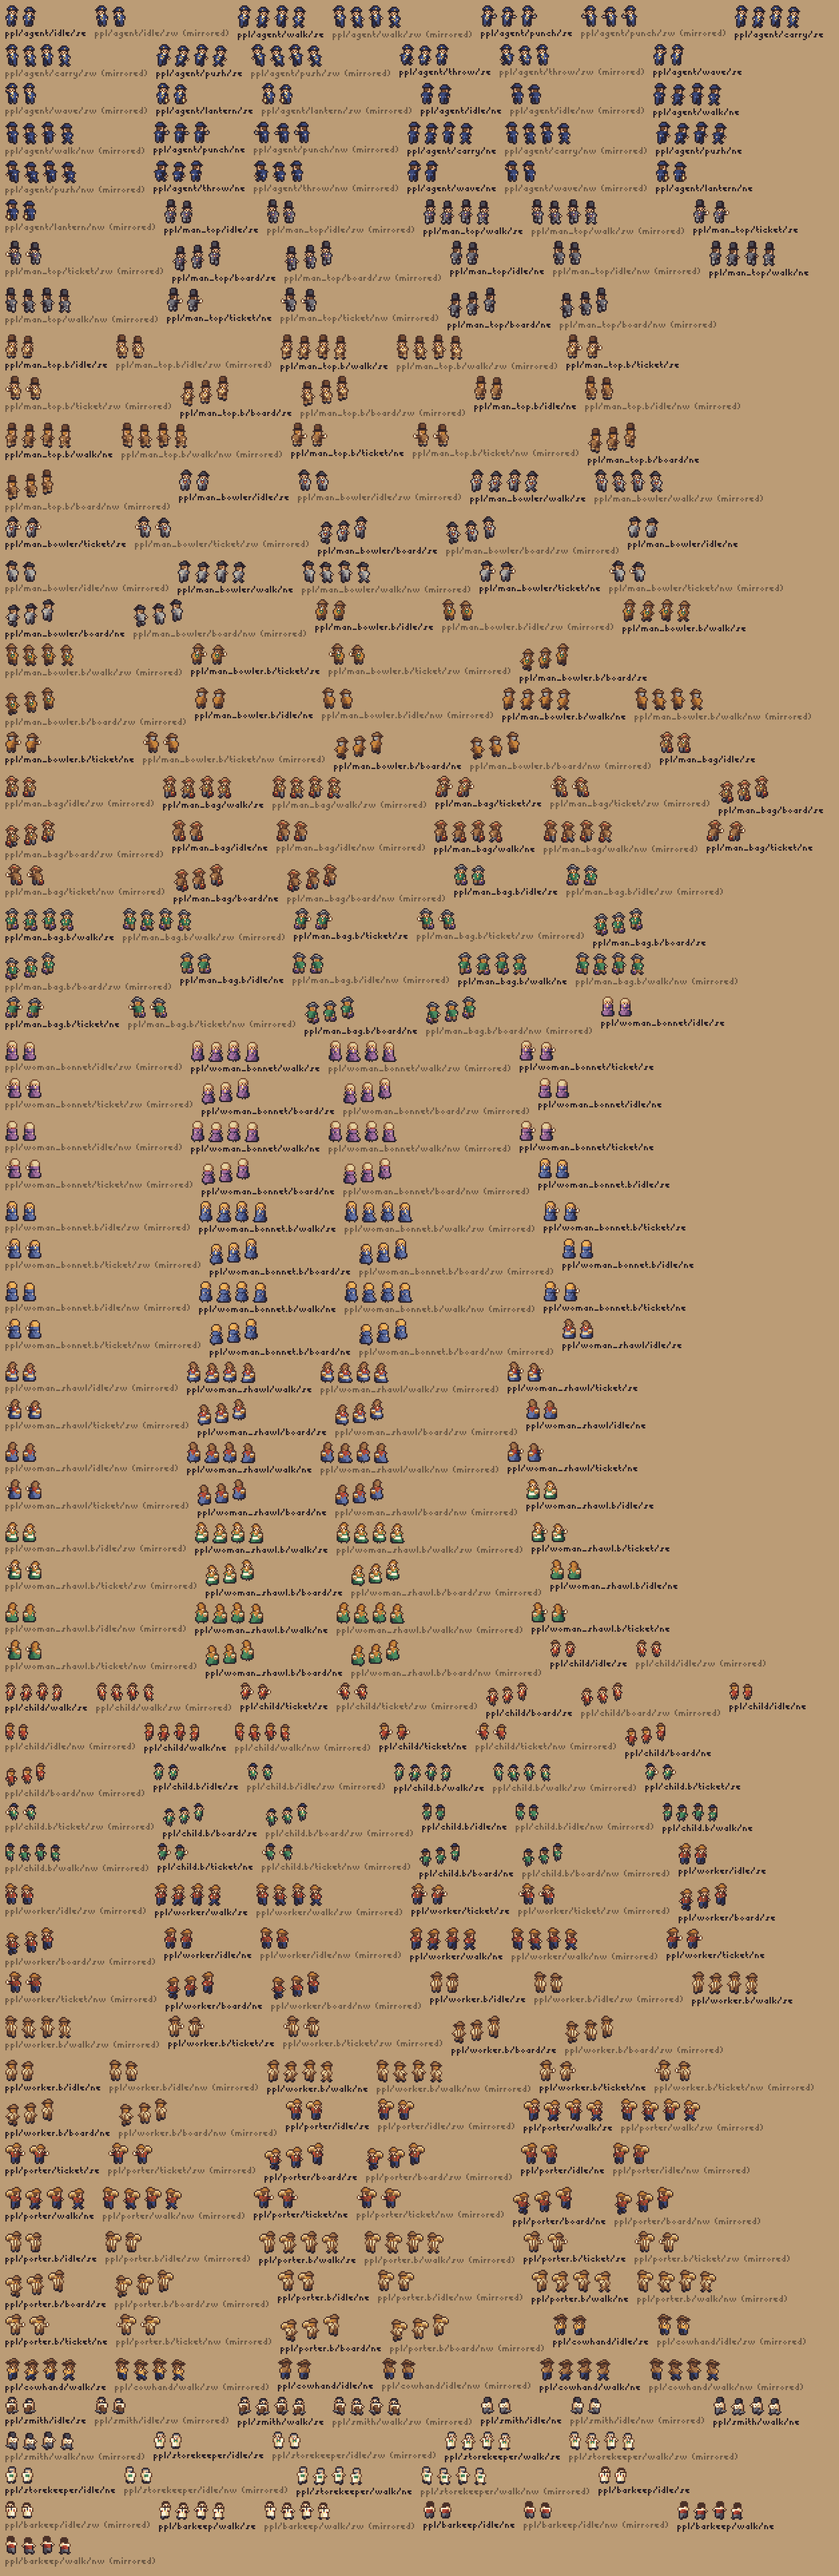
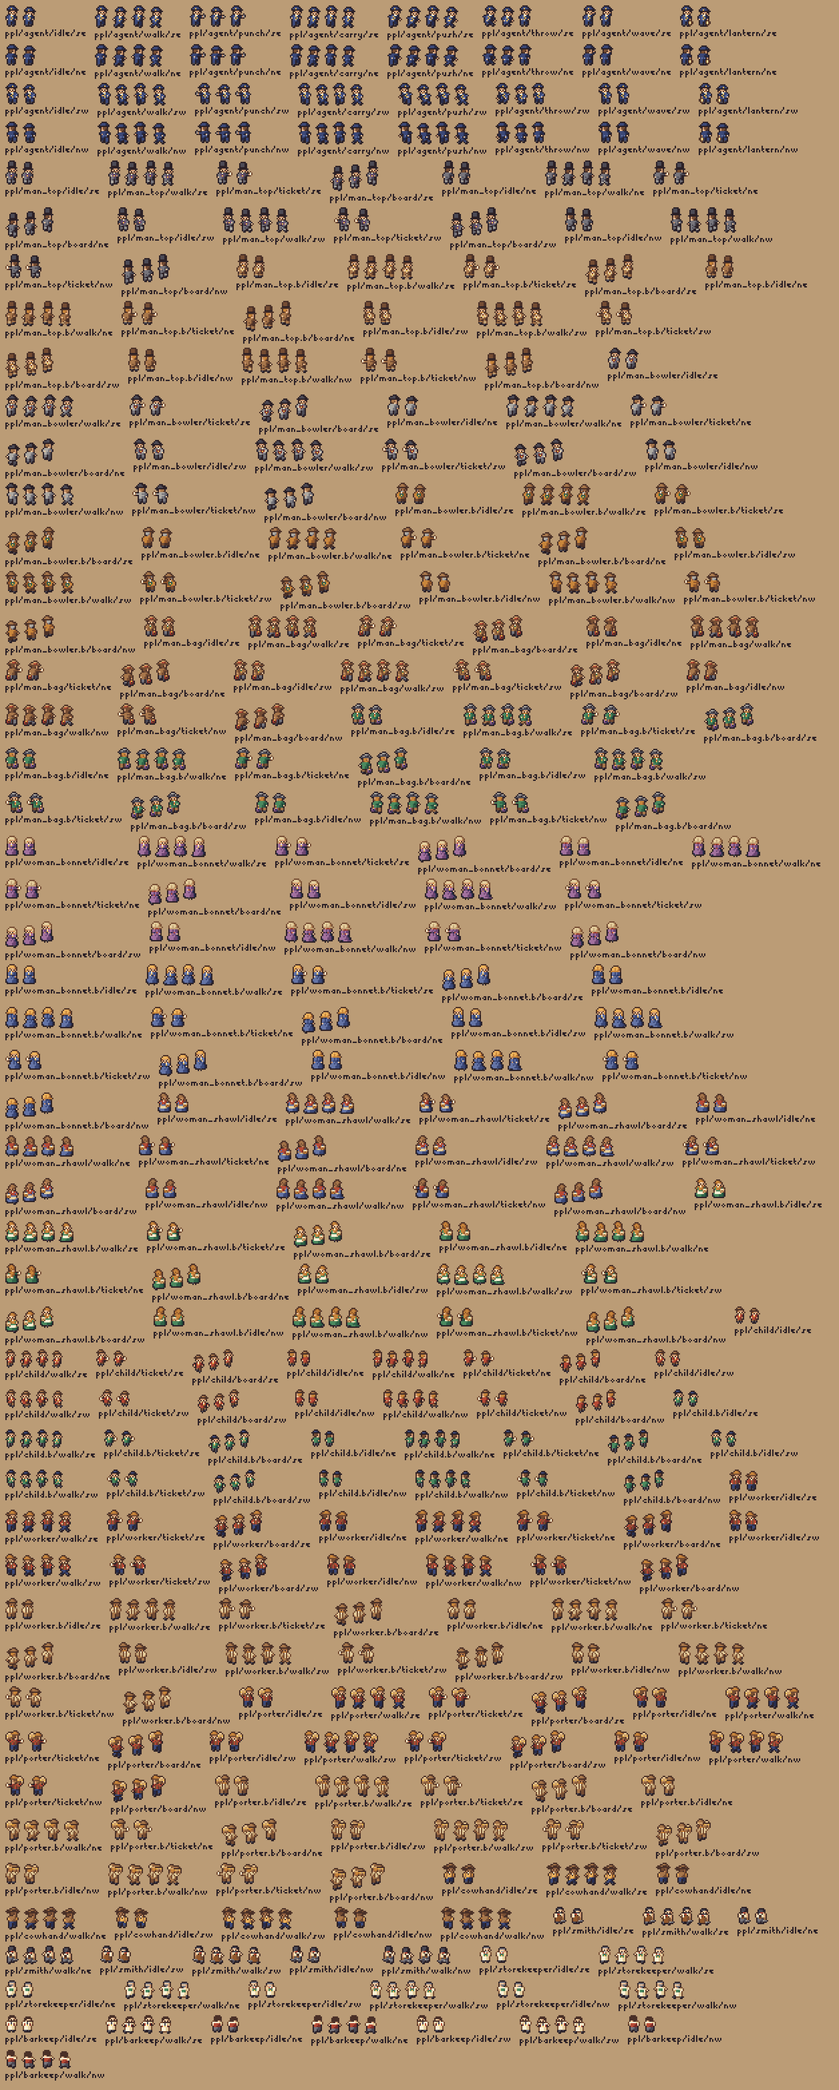
People: draw all four facings lit from the upper left; trunk, women's backs, smith
sw and nw are now drawn (the se and ne maps mirrored, then re-lit so the light stays on the upper left),
so the renderer must not mirror people (meta mirror: false; README-people.md says so and lists the
extra types and the wave and lantern animations for the contract). The porter's trunk now sits end on
on his shoulder with his hand steadying it; the bonnet and the hair bun have proper backs (bavolet
frill, sash bow, bun and parting); the smith has a red neckerchief, a tan leather apron with dark
straps and dark hair, so he no longer reads as one brown block. 320 sprites, 896 frames, people
sheet about 21 KB.

Claude-Session: https://claude.ai/code/session_014zyJYPBcwpjXzd1ZnkSX9n

Changed region(s): [[0.0, 0.0, 0.9544, 0.9964], [0.8004, 0.4982, 0.862, 0.5916]]

diff --git a/tools/pixelart/people.py b/tools/pixelart/people.py
@@ -208,9 +208,9 @@ TPL['smith'] = [
 "....aSSs...",
 "....SeSes..",
 "....aAAa...",
-"...WWWWw...",
-"...WPPPw...",
-"...WPNPp...",
+"...WRRWw...",
+"...WNPNw...",
+"...WPPPp...",
 "...PPPpp...",
 "...PPPpp...",
 "...PPPpp...",
@@ -221,11 +221,11 @@ TPL['smith.back'] = [
 "....AAAa...",
 "....AAAa...",
 "....AAaa...",
-".....aSs...",
-"...WWWWw...",
-"...WNWNw...",
-"...WWNww...",
-"...TPTtp...",
+".....RRs...",
+"...NWWNw...",
+"...WNNWw...",
+"...WNNww...",
+"...TPPtp...",
 "...TTTtt...",
 "...TTttt...",
 ]
@@ -306,13 +306,13 @@ TPL['lady'] = [
 ]
 TPL['lady.back'] = [
 "....HHHh...",
-"...HHHHHk..",
-"...HHHHhk..",
-"...hHHHhs..",
-"....RRrs...",
-"...ODDDdo..",
-"....DDDd...",
-"....VVvv...",
+"...HHhHHk..",
+"...HHhHhk..",
+"..hhhhhhs..",
+"....RrRs...",
+"...ODdDdo..",
+"....DdDd...",
+"....VRVv...",
 "...DDDdDf..",
 "...DDdDdf..",
 "..DDDDDddf.",
@@ -336,16 +336,16 @@ TPL['farmwife'] = [
 "..fDDDdddf.",
 ]
 TPL['farmwife.back'] = [
-"....AAa....",
+"....aAa....",
 "...aAAAa...",
-"....AAAa...",
-"....AAaa...",
+"....AaAa...",
+"....aAaa...",
 ".....aSs...",
 "...UUUUu...",
 "..UUUUUuu..",
 "...UUUuu...",
-"...DDUDdf..",
-"...DDDDdf..",
+"...DDUudf..",
+"...DpPpdf..",
 "..DDDDDddf.",
 "..DDDDdddf.",
 "..fDDDdddf.",
@@ -430,7 +430,7 @@ SPECS = {
     'cowhand':     ('cowhand', 'man', spec(hat=('wood', 2), band=('wood', 4), coat=('ochre', 0), vest=('wood', 2),
                                            band2=None, trous=('navy', 1), hair=('wood', 3), skin='skin2',
                                            tie=('red', 1))),
-    'smith':       ('smith', 'man', spec(hair=('iron', 3), apron=('wood', 3), tie=('wood', 2), shirt=('cream', 0),
+    'smith':       ('smith', 'man', spec(hair=('iron', 3), apron=('ochre', 2), tie=('wood', 4), shirt=('cream', 0), band=('red', 1),
                                          trous=('iron', 2), sleeve='skin')),
     'storekeeper': ('storekeeper', 'man', spec(hair=('iron', 1), apron=('cream', 0), vest=('green', 1),
                                                tie=('dark', 1), trim=('red', 1), sleeve='shirt', trous=('iron', 2))),
@@ -654,9 +654,8 @@ def arm_pts(build, pose, side):
     elif pose == 'up2':
         sl(x0, top + 1); sl(x0, top + 2)
         hd(x0, top + 3)
-    elif pose == 'shoulder':     # hand up at the shoulder steadying a load on it
-        sl(x0, top); sl(x0, top + 1)
-        hd(x0, top + 2)
+    elif pose == 'shoulder':     # arm up at the shoulder steadying a load on it (the hand is drawn with the load)
+        sl(x0, top); sl(x0 - 1, top + 1)
     elif pose == 'none':
         pass
     else:
@@ -702,11 +701,12 @@ def held(kind, hx, hy, back, swing=0):
     raise ValueError(kind)
 
 
-TRUNK = [            # a small steamer trunk carried on the near shoulder (front view), lid trim and brass corners
-    ".111.",
-    "12223",
-    "G333G",
-    "34443",
+TRUNK = [            # a small steamer trunk seen end on, resting on the near shoulder, the hand steadying it
+    ".11.",
+    "1222",
+    "G22G",
+    "S334",
+    "3443",
 ]
 CRATE = [
     ".1112.",
@@ -859,7 +859,7 @@ def trim(img, anchor):
 # Animations
 # ---------------------------------------------------------------------------------------------------------------
 DIRS = {'se': (False, False), 'sw': (False, True), 'ne': (True, False), 'nw': (True, True)}
-DRAWN = ('se', 'ne')
+DRAWN = ('se', 'ne', 'sw', 'nw')    # all four drawn and lit from the upper left: do not mirror people
 # e: facing world +x (screen lower right, front three quarters); s: +z (lower left, front, mirrored);
 # n: -z (upper right, back three quarters); w: -x (upper left, back, mirrored).
 
@@ -936,8 +936,8 @@ def agent_anims():
 
 
 # Where the game draws a carried item (offset in px from the feet anchor to the item's anchor) and the cart grip.
-CARRY_HANDS = {'se': (0, -5), 'ne': (0, -7)}   # the contract's default is (0, -9): see NOTES (too high for a crate)
-PUSH_GRIP = {'se': (5, -3), 'ne': (5, -3)}
+CARRY_HANDS = {'se': (0, -5), 'ne': (0, -7), 'sw': (0, -5), 'nw': (0, -7)}   # contract default (0, -9) is too high for a crate
+PUSH_GRIP = {'se': (5, -3), 'ne': (5, -3), 'sw': (-5, -3), 'nw': (-5, -3)}
 CART_BEHIND = 2.1     # how far (u) behind the cart's centre the pusher stands, for the committed handcart sprite
 
 TAGS = {'store': ('green', 0), 'smithy': ('glass', 1), 'saloon': ('red', 0)}
@@ -969,7 +969,7 @@ def emit_frames(who, kwlist, d, extra=None):
         load = kw.pop('load', None)
         xh = kw.pop('extra_hold', None)
         if load == 'trunk':
-            kw['load'] = (TRUNK, -6, 5)
+            kw['load'] = (TRUNK, -5, 6)
         elif isinstance(load, tuple):
             kw['load'] = load
         g = frame(who, back, **kw)
@@ -987,10 +987,11 @@ def emit_frames(who, kwlist, d, extra=None):
 
 def build_all():
     """Returns a list of (contract key, [frames as (img, anchor)], meta). Keys: ppl/<who>/<anim>/<dir>; the
-    pipeline appends /0, /1, ... per frame. Only se and ne are drawn; the renderer mirrors them for sw and nw."""
+    pipeline appends /0, /1, ... per frame. All four facings are drawn and re-lit; the renderer must not mirror them."""
     out = []
     def meta_for(anim, more=None):
-        m = {'frame_note': FRAME_NOTES.get(anim, ''), 'anchor': 'between the feet, at ground level'}
+        m = {'frame_note': FRAME_NOTES.get(anim, ''), 'anchor': 'between the feet, at ground level',
+             'mirror': False}     # all four facings are drawn and lit from the upper left: never mirror people
         if more:
             m.update(more)
         return m

diff --git a/tools/pixelart/review_people.py b/tools/pixelart/review_people.py
@@ -1,8 +1,7 @@
 #!/usr/bin/env python3
 # Review pictures for the people (owner: the people artist). Writes, in tools/pixelart/out/:
-#   people-contact.png    every person sprite at 3x with its key: the drawn se and ne frames, then (dimmer
-#                         label) the sw and nw frames as the renderer will mirror them
-#   people-closeup.png    the idle frame of every type at 8x, se and ne, for judging faces and clothes
+#   people-contact.png    every person sprite at 3x with its key (all four facings are drawn; none mirrored)
+#   people-closeup.png    the idle frame of every type and facing at 8x, for judging faces and clothes
 #   people-testscene.png  people standing on a platform beside a coach, queueing, boarding, the agent punching,
 #                         carrying a crate (drawn at the hands offset) and pushing the handcart, at 3x
 # The test scene takes the platform, coach, goods and handcart from the committed sheets (out/atlas.json);
@@ -43,9 +42,6 @@ def contact(sprites, scale=3, width=620):
     cells = []
     for name, frames, meta in sprites:
         groups = [(name, frames, (43, 32, 38, 255))]
-        d = name.split('/')[-1]
-        md = {'se': 'sw', 'ne': 'nw'}[d]
-        groups.append((name[:-2] + md + ' (mirrored)', [mirrored(f, a) for f, a in frames], (110, 90, 70, 255)))
         for nm, frs, col in groups:
             fw = sum(i.shape[1] + 3 for i, _ in frs)
             ups = max(a[1] for _, a in frs); downs = max(i.shape[0] - a[1] for i, a in frs)
@@ -78,7 +74,7 @@ def contact(sprites, scale=3, width=620):
 def closeup(sprites, scale=8):
     sel = [(n, f[0]) for n, f, m in sprites if n.split('/')[2] == 'idle']
     CW, CH = 18, 24
-    per = 12
+    per = 16
     nrow = (len(sel) + per - 1) // per
     img = np.zeros((nrow * CH, per * CW, 4), np.uint8); img[...] = BG
     for i, (n, (f, (ax, ay))) in enumerate(sel):
@@ -96,11 +92,8 @@ def test_scene(sprites, scale=3):
         return sheets[e['sheet']][y:y + h, x:x + w], (ax, ay)
     ppl = {n: f for n, f, m in sprites}
     def person(key, d, k=0):
-        base = key + '/' + ('se' if d in ('se', 'sw') else 'ne')
-        f, a = ppl[base][k % len(ppl[base])]
-        if d in ('sw', 'nw'):
-            f, a = mirrored(f, a)
-        return f, a
+        frs = ppl[key + '/' + d]
+        return frs[k % len(frs)]
     W, H = 300, 200
     O = (120, 70)
     img = np.zeros((H, W, 4), np.uint8); img[..., :3] = (159, 174, 85); img[..., 3] = 255

diff --git a/tools/pixelart/sprites_people.py b/tools/pixelart/sprites_people.py
@@ -1,6 +1,6 @@
 # Sprite module: people (owner: the people artist). Keys follow the contract (plans/proto-sprites.md):
-# ppl/<who>/<anim>/<dir>, frames numbered /0, /1, ... by the pipeline. Only se and ne are drawn; the renderer
-# mirrors them for sw and nw. The drawing itself is in people.py.
+# ppl/<who>/<anim>/<dir>, frames numbered /0, /1, ... by the pipeline. All four facings are drawn, lit from the
+# upper left: the renderer must not mirror people. The drawing is in people.py; see README-people.md.
 import people as PE
 
 

diff --git a/tools/pixelart/README-people.md b/tools/pixelart/README-people.md
@@ -1,0 +1,46 @@
+# People sprites
+
+Made by `people.py` (the drawing) and `sprites_people.py` (registers them with the pipeline). Review pictures:
+`python3 tools/pixelart/review_people.py` writes `out/people-contact.png`, `out/people-closeup.png` and
+`out/people-testscene.png`.
+
+## Keys
+
+`ppl/<who>/<anim>/<dir>/<f>`, as in the contract (`plans/proto-sprites.md`).
+
+- **All four facings are drawn: `se`, `ne`, `sw`, `nw`.** Each is lit from the upper left. **The renderer must
+  NOT mirror people**: a mirrored frame would put the light on the wrong side. (This changes the contract's
+  "the renderer mirrors se for sw and ne for nw" for people; decided by the lead, 2026-11-10.)
+- Anchor: the point between the feet, at ground level. Alpha is hard (0 or 255); no shadow is baked in.
+
+## What exists
+
+| who | anims (frames) |
+|---|---|
+| `agent` | idle 2, walk 4, punch 3, carry 4, push 4, throw 3, **wave 2**, **lantern 2** |
+| contract travellers: `man_top`, `man_bowler`, `man_bag` (carpetbag), `woman_bonnet`, `woman_shawl` (basket), `child`, each also `.b` | idle 2, walk 4, ticket 2, board 3 |
+| **extra travellers**: `worker`, `worker.b` (working man), `porter`, `porter.b` (working man with a trunk on his shoulder) | idle 2, walk 4, ticket 2, board 3 |
+| **extra townsfolk**: `cowhand`, `smith` (blacksmith), `storekeeper`, `barkeep` (saloon keeper) | idle 2, walk 4 |
+
+The ones in bold are not in the contract yet; the lead asked to keep them, so the contract can add them.
+
+- `wave`: waving a train off (play 0-1 back and forth). `lantern`: standing with a lit lantern (dusk).
+- Walk frames: pass, stride, pass, stride; frame 0 also serves as standing. Idle frame 1 is a breath.
+- `board`: foot on the step, up, in; frames are drawn 0, 2 and 4 px higher (meta `lift_px`).
+
+## Meta for the renderer
+
+- `ppl/agent/carry/<dir>`: `hands`, the offset in px from the feet to the carried item's anchor:
+  se and sw (0, -5), ne and nw (0, -7). In ne and nw draw the item before the agent. The contract's default
+  (0, -9) puts the committed 0.7u crate over the agent's head; even at (0, -5) a 14 x 10 px crate hides the face,
+  so smaller carried goods (with no ground shadow) would look better.
+- `ppl/agent/push/<dir>`: `grip`, the hands' offset (se, ne (5, -3); sw, nw (-5, -3)); the test scene stands the
+  agent 2.1u behind the committed handcart's centre.
+
+## How a frame is built (for changes)
+
+Each type has a hand-drawn pixel map of head, hat and body (`TPL`, front and back). Arms, legs, hands, held
+things and the walk come from pose tables (`LEGS`, `SKIRT`, `arm_pts`, `held`), so every type shares the timing.
+`sw` and `nw` are the `se` and `ne` maps mirrored and then re-lit: in each row, the shades within each run of one
+colour ramp are put back in their unmirrored order, which keeps the light on the left.
+Palette swaps are in `SPECS` (roles such as hat, coat, vest, dress mapped to the shared ramps in `engine.py`).
